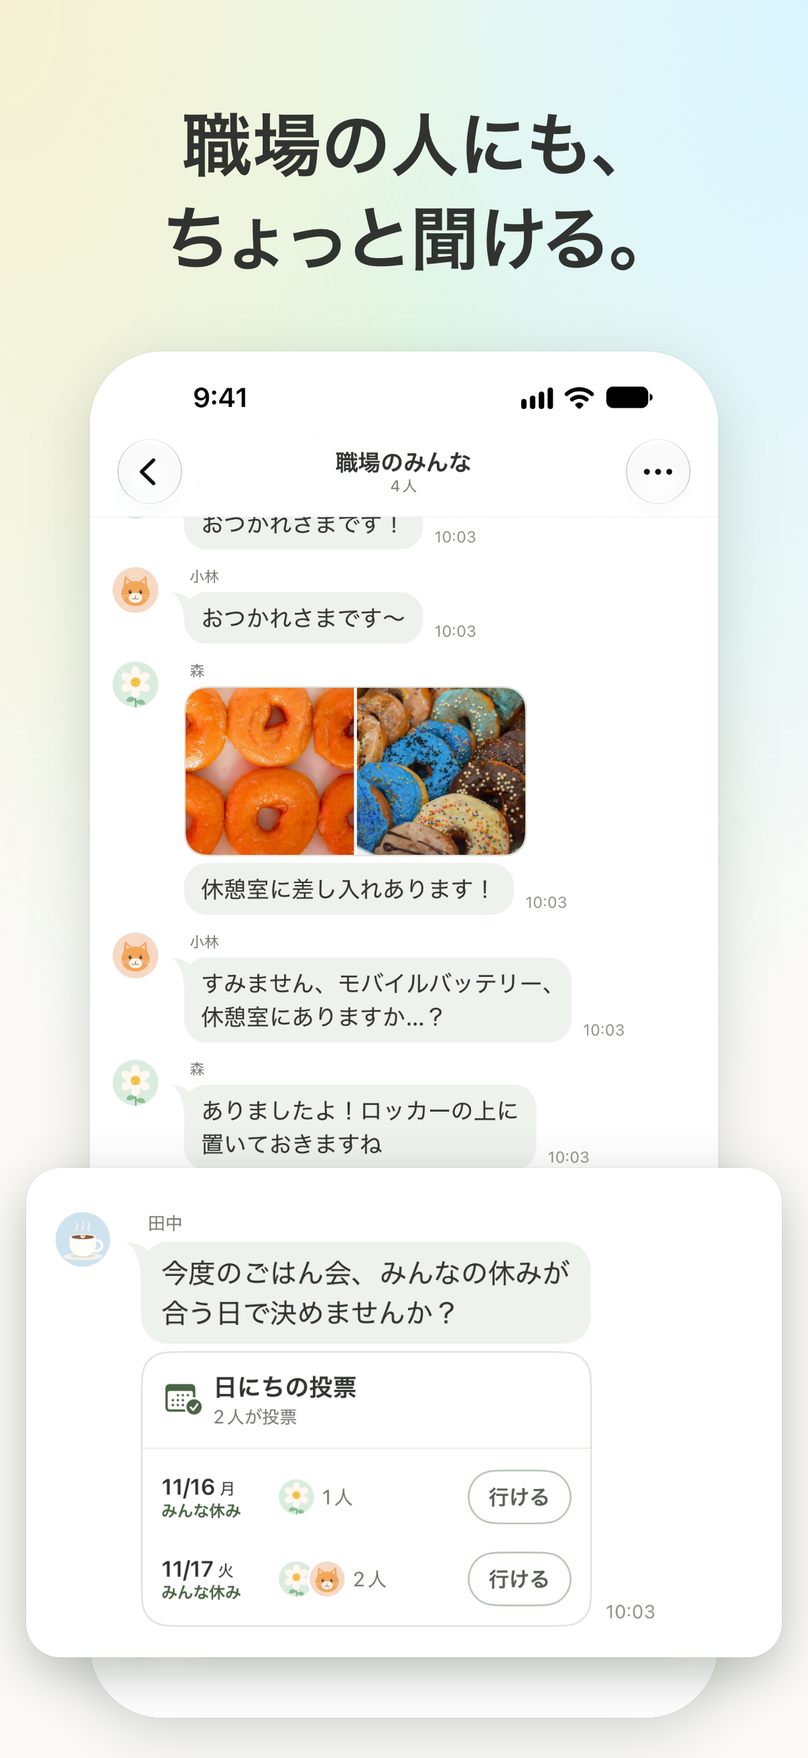
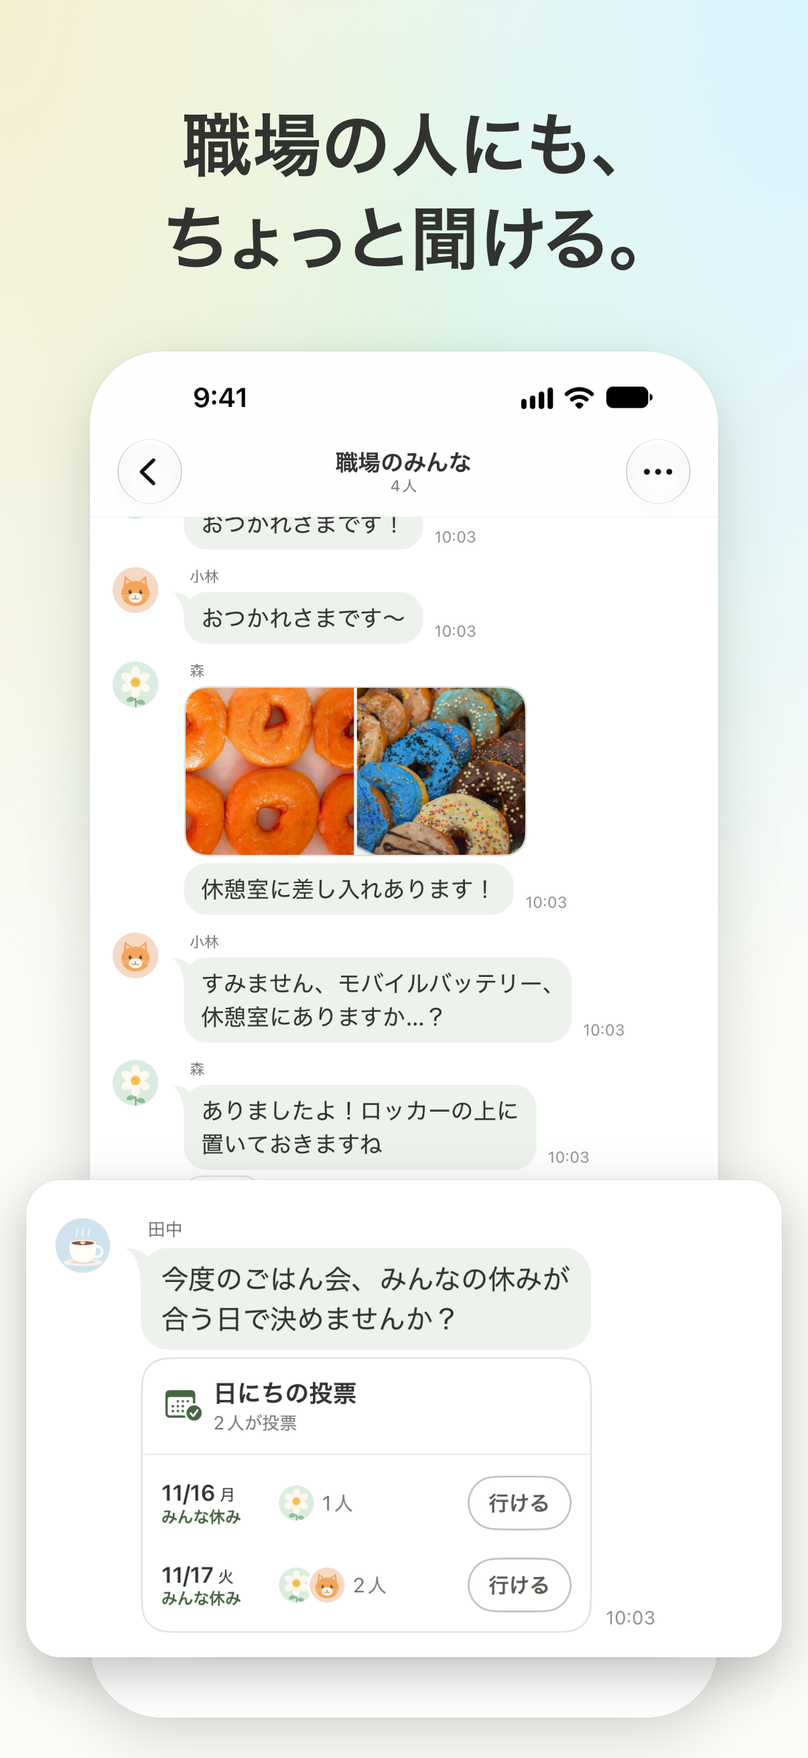
Store pictures: the chat's card with the line that asks for the poll on Google Play too, a card growing down from its part's top (#806)
A callout's card starts where its part does and grows down, so what
leads to the part stays in sight over it, and is as large as leaves of
the phone under it what the picture leaves under the phone.

diff --git a/packages/prototype/src/lib/store-shots.ts b/packages/prototype/src/lib/store-shots.ts
@@ -267,22 +267,25 @@ type StoreShotName = (typeof STORE_SHOTS)[number]["name"];
 export const STAGE_FOOT = 5;
 
 // A callout's card, lengths in hundredths of the picture's width: the room
-// it keeps around its part, the room it leaves to the picture's sides, and
-// how many times larger than the phone has it the part is drawn at most.
+// it leaves to the picture's sides, how many times larger than the phone
+// has it the part is drawn at most, and the room it keeps around its part.
 const CALLOUT = { margin: 2, most: 1.35, pad: 1.5 } as const;
 
 // A rectangle of a screen or a picture, in its pixels.
 export type Rect = { height: number; left: number; top: number; width: number };
 
 // A callout as it is drawn: how many times larger than the phone has it
-// the part is, as large as lets a row as wide as the screen keep the
-// card's margin to the picture's sides; and the card in the picture, over
-// the part in the phone, which stands in the picture's middle as tall as
-// the room under the headline. The card reaches past its part by what the
-// part grows and its own room, and then takes in every piece of the
-// screen it would lie over a part of, on whichever side that is: what
-// shows beside the card is whole, and what it covers is covered whole.
-// The part is drawn in the card's middle.
+// the part is; and the card in the picture, over the part in the phone,
+// which stands in the picture's middle as tall as the room under the
+// headline. A screen reads from its top, so what is over the part leads
+// to it and stays in sight: the card's top is where the part's is, with
+// its own room, and the part grows down from there, and to both sides
+// alike. It is as large as lets a row as wide as the screen keep the
+// card's margin to the picture's sides, and the card leave as much of the
+// phone under it as the picture leaves under the phone. The card then
+// takes in every piece of the screen it would lie over a part of, on
+// whichever side that is: what shows beside the card is whole, and what
+// it covers is covered whole. The part is drawn in the card's middle.
 export const calloutOf = (
   measured: Rect,
   pieces: readonly Rect[],
@@ -292,13 +295,16 @@ export const calloutOf = (
   const unit = picture.width / 100;
   const headline = picture.height * HEADLINE_SHARE;
   const phone = (picture.height - headline - STAGE_FOOT * unit) / screen.height;
+  const pad = (CALLOUT.pad * unit) / phone;
+  const top = measured.top - pad;
   const scale = Math.min(
     CALLOUT.most,
     (100 - 2 * CALLOUT.margin - 2 * CALLOUT.pad) /
-      ((screen.width * phone) / unit)
+      ((screen.width * phone) / unit),
+    (screen.height - (STAGE_FOOT * unit) / phone - pad - measured.top) /
+      measured.height
   );
-  const pad = (CALLOUT.pad * unit) / phone;
-  const reach = (length: number) => ((scale - 1) * length) / 2 + pad;
+  const beside = ((scale - 1) * measured.width) / 2 + pad;
   const sides = pieces.map((piece) => ({
     foot: piece.top + piece.height,
     left: piece.left,
@@ -322,10 +328,10 @@ export const calloutOf = (
   // The card over the phone, in the screen's pixels: each turn takes one
   // more piece in whole, and none in leaves again.
   let card = {
-    foot: measured.top + measured.height + reach(measured.height),
-    left: measured.left - reach(measured.width),
-    right: measured.left + measured.width + reach(measured.width),
-    top: measured.top - reach(measured.height),
+    foot: measured.top + scale * measured.height + pad,
+    left: measured.left - beside,
+    right: measured.left + measured.width + beside,
+    top,
   };
   let cut = cutBy(card);
   while (cut !== undefined) {

diff --git a/apps/design/tests/store-screenshots.test.ts b/apps/design/tests/store-screenshots.test.ts
@@ -6,6 +6,7 @@ import {
   FEATURE_GRAPHIC,
   HEADLINE,
   HEADLINE_SHARE,
+  STAGE_FOOT,
   lineBoxOf,
   lineClearOf,
   STORE_SHOTS,
@@ -252,6 +253,25 @@ test("a callout's card cuts through no piece beside it either, and leaves alone 
   expect(over.top).toBeCloseTo(bare.top);
   expect(over.foot).toBeCloseTo(bare.foot);
   expect(over.right).toBeLessThan(button.left);
+});
+
+test("a callout's card leaves what is over its part in sight, and the phone's foot under it", () => {
+  const screen = SCREENS.android;
+  const picture = STORES.android;
+  // An answer of a chat, and close under it the lines the card lifts, too
+  // tall to grow as much as a card may.
+  const answer = { height: 300, left: 20, top: 1100, width: 1040 };
+  const lines = { height: 710, left: 20, top: 1450, width: 1040 };
+  const { card, phone, scale } = calloutOf(lines, [answer], screen, picture);
+  const over = onScreen(card, phone, screen, picture);
+  expect(over.top).toBeGreaterThan(answer.top + answer.height);
+  expect(over.top).toBeLessThan(lines.top);
+  expect(scale).toBeGreaterThan(1.2);
+  expect(scale).toBeLessThan(1.35);
+  // As far over the phone's foot as the phone is over the picture's.
+  expect(over.foot).toBeCloseTo(
+    screen.height - (STAGE_FOOT * picture.width) / 100 / phone
+  );
 });
 
 const tiles = wallOf(WALL_SHOT.tiles);

diff --git a/apps/android/app/src/androidTest/kotlin/app/pochical/StoreScreenshots.kt b/apps/android/app/src/androidTest/kotlin/app/pochical/StoreScreenshots.kt
@@ -170,9 +170,8 @@ class StoreScreenshots {
     device.tap(By.text("全体チャット"), votes)
     check(!device.hasObject(By.text("ここから新着"))) { "The chat still has new lines" }
     photograph("04-chat")
-    // The poll, by its line, which says what it is. (A line of words is one piece here, its reactions with
-    // it: the line that asks for the poll taken in too, the card would cover the answer over it.)
-    measure("04-chat", "poll", Regex(".*日にちの投票.*"))
+    // The poll with the words that ask for it over it, each its whole line of the chat, as on iOS.
+    measure("04-chat", "poll", Regex(".*(ごはん会|日にちの投票).*"))
     device.back(By.text("メッセージ"))
 
     // A month that runs from the 15th, the page holding today, and the month put back.

diff --git a/apps/design/src/routes/_tool/[_]render/store-shot.tsx b/apps/design/src/routes/_tool/[_]render/store-shot.tsx
@@ -113,8 +113,8 @@ const tilesLie = (parts: number[], tall: number) => {
 };
 
 const styles = {
-  // A callout's card, as a tile's is, lifted over the phone from its
-  // middle.
+  // A callout's card, as a tile's is, lifted over the phone, its part in
+  // its middle.
   callout: css({
     alignItems: "center",
     bg: "white",

diff --git a/AGENTS.md b/AGENTS.md
@@ -14,7 +14,7 @@ Pochical is a monorepo: native SwiftUI (`apps/ios`) and Jetpack Compose (`apps/a
   - ライセンス's list of libraries is generated by each app's build, never checked in (spec/calendar.md, ライセンス): on iOS by LicenseList's build plugin from the resolved Swift packages' checkouts (`PLL_SOURCE_PACKAGES_PATH` names them when `-clonedSourcePackagesDirPath` moves them, as CI's `ios` job does), on Android by AboutLibraries' Gradle plugin into each variant's `res/raw/aboutlibraries.json`, with what the app carries besides its dependencies in `apps/android/app/aboutlibraries/libraries`.
   - Icons: the marks' paths from Phosphor via `pnpm --dir design icon:marks`; the iOS app icons and the widgets' `PeekingPoodle` via `pnpm --dir packages/prototype icon:ios`, and Android's launcher icon (its `mipmap` layers and the background color) and the Play listing's 512-pixel icon (`apps/android/app/src/main/ic_launcher-playstore.png`) and the widgets' `widget_poodle` via `icon:android`, both painting with `scripts/app-icon.ts` as the site icon's `icon:site` does.
   - try's installable app (`apps/try/public/app`): the icons, iOS's launch images and the web app manifest via `pnpm --dir apps/try icon:app` (`scripts/app-assets.ts`), and the manifest's screenshots, the screens `src/lib/app-screenshots.ts` names, via `image:screens`, which photographs the app on a dev server of its own as apps/design's `image:share` photographs the share image, both through `@pochical/prototype`'s `scripts/photograph.ts`. A change to that list runs both.
-  - The stores' pictures (`store/screenshots/<store>`, Google Play's feature graphic, `store/feature-graphic.png`, and the App Store's product page header, `store/product-page-header.png`): the shots, their headlines and each store's size in `@pochical/prototype`'s `lib/store-shots.ts` → `ANDROID_SERIAL=emulator-<port> mise run store:screenshots`. It photographs the real apps' screens into `.build/store-screenshots/<store>`, under the same names on both platforms, each against a server it starts and `tools/store-screenshots/seed.ts` seeds with two groups made by one piece, the coworkers' and a group of friends, each person's photo one of the faces' drawings (`design/src/drawings`) (`store:shots:android`: `StoreScreenshots` on the running emulator `ANDROID_SERIAL` names, never a phone, the widgets drawn there by themselves from the app's own days; `store:shots:ios`: `StoreScreenshotTests` in a simulator of its own, `pochical-store`, the widgets put on its Home Screen), then draws each on the site's sky under its headline (`store:images`: apps/design's `image:store`, which photographs `/_render/store-shot` as `image:share` does the share image, for each store whose screens are there). The seed runs beside the capture: it makes the groups, writes their invitations, and writes the coworkers' chat only once the person photographed has joined, so the chat says every joining above its lines, and more lines than a screen holds keep them out of the picture, among them two photographs sent at once (`tools/store-screenshots/photos`, whose README names where each is from; a JPEG put there under the same name is sent in its place); the capture reads the chat to its latest line, opens it again, and photographs it there. The status bar says 9:41 in every picture, whenever the run is, and the chat's lines the time they were written; Android's is SystemUI's demo, entered once the emulator is on its Wi-Fi, as one entered in the seconds after a boot shows a second Wi-Fi icon to its end. Every look is set through the app's own settings: a raw file or folder named `-sumi` is in black and white (テーマ 墨, シフトの色 ワントーン, シフトの見た目 線, 休みの見せ方 印だけ, 色をつける日 off), one named `-letters` has the shifts as letters (シフトの見た目 文字, テーマ ソーダ), the rest as the app starts. The wall of widgets is placed by hand (the shot's `tiles`: which widget, in which look, in which cell of `WALL`), from every kind at each size it has for a Home Screen, those that can be set to someone set to a person and to the group too, and those today's shift changes on each of the sample's (a day off, 日勤, 夜勤, 明け: the capture enters it for today in ポチポチ入力 and photographs them in both looks before it enters the next), in the app's look and in 墨: medium and large widgets carry it, small ones are its accents. 次の休み counting to a day off, 次の休み on a day off and いまのシフト are marked `whole` and stand together where the eye lands, whole in each store's picture and in what every picture drawn from the wall shows on every device; no picture is beside itself. Entering a shift takes a day's own hours off it (早出, 残業) and 夜勤 gives the day after its 明け, and nothing is put back: every picture of the month is taken before the widgets, ポチポチ入力's among them, whose days taken out are entered again by the tray's keys and the month checked to say what it did before; the widgets' shifts go in the order that leaves each the days it shows as the sample has them. いまのシフト draws its ring only while a shift is on, so after the widgets a run enters one of the sample's shifts that is on at that hour and photographs that widget again, in the app's look, once it says the shift is on (before 9:00 that shift is the day before's 夜勤, which the month's page has no day for on the 1st: the run is not started then, and says to run from 9:00). A widget is photographed once it says the days it is to show (iOS; Android draws it from what the app holds then), and a run fails when a widget asked for is not there, when the seed's last checks fail, when the port already has a server, or when the emulator's settings are not all put back. The friends' group is joined as まい with ひよこ picked for a face, in place of the drawing a new person is given at random, and the coworkers' as 佐藤, there alone. A shot of one screen may lift the part its headline is about (its `callout`): the capture measures that part by its element, and every piece of the screen that says something, into `<raw>.json` (on Android as Compose lays them out, the accessibility tree giving a button smaller than a finger the larger place it takes touches in), and the picture draws the part again, larger (as large as keeps a row as wide as the screen inside the picture, 1.35 times at most), on a card over where it is in the phone; a piece the card would lie over a part of, on any side, it takes in whole, so nothing shows cut beside it, and the part is drawn in the card's middle, whole lines of the screen with their own room. The friends' table lifts the days everyone is off, the chat its poll's line (on iOS with the line that asks for it), 端末カレンダーに追加 its 自動で反映. The details' shot and the cares' are three tiles each, within where a phone is under the headline, the room they leave shared evenly between them up to the most a gap may be and the rest left over and under them alike, a tile a card of the picture's with room inside it, on the ground of what it holds: a part of a screen its platform's UI test cuts at whole rows, from the top of one of the screen's own pieces to the foot of another, or pieces the page draws from the app's own marks, larger than a screen has them, with words and lines of the picture's that say what happens (the shot's `pieces`). Each tile holds only what makes its point. A part's file is named for what it is (`tile-<what>.png`), not for the shot it is in. The details', how a roster itself is: two weeks of 繰り返しを直す on a fixed cycle, a run's last step but one as it changes the job, to the ready-made 当番・非番・休み from next month's 1st, 当番 and 休み then named 当務 and 週休; the first week of a page of a シフトの期間 from the 15th under its heading, set in 設定 and put back; and a day of 早出 and one of 残業 with their marks' corners named, drawn. The cares', what the app does for the person: 夜勤's key pressed and the two days it fills, the second the app's doing, drawn; リマインド's reminder of the evening before, the next notification as its page draws it, before anything is changed; and グループの設定's rows of a group with an end, 忘年会, made in グループを作る with the day 終了日をつける offers, a run's very last step as it leaves a group. The wall is drawn in other pictures too, the list `WALL_PICTURES`: each its name, size, file, the store whose widgets it shows, where the wall lies in it (`lie`, as in a store's picture without), the line it carries (`line`, the wall clearing to the sky around it, none without) and the part of it every device shows (`safe`, which holds the line and the widgets marked `whole`, anywhere without). The App Store's product page header is the first: the wall across 3840×1646, the site's line beside the three widgets, both inside the art safe area measured from Apple's template. A change to that page or to a headline runs `store:images` alone, the screens still in `.build`; a change to an app's screens runs its `store:shots:*` and `store:images`.
+  - The stores' pictures (`store/screenshots/<store>`, Google Play's feature graphic, `store/feature-graphic.png`, and the App Store's product page header, `store/product-page-header.png`): the shots, their headlines and each store's size in `@pochical/prototype`'s `lib/store-shots.ts` → `ANDROID_SERIAL=emulator-<port> mise run store:screenshots`. It photographs the real apps' screens into `.build/store-screenshots/<store>`, under the same names on both platforms, each against a server it starts and `tools/store-screenshots/seed.ts` seeds with two groups made by one piece, the coworkers' and a group of friends, each person's photo one of the faces' drawings (`design/src/drawings`) (`store:shots:android`: `StoreScreenshots` on the running emulator `ANDROID_SERIAL` names, never a phone, the widgets drawn there by themselves from the app's own days; `store:shots:ios`: `StoreScreenshotTests` in a simulator of its own, `pochical-store`, the widgets put on its Home Screen), then draws each on the site's sky under its headline (`store:images`: apps/design's `image:store`, which photographs `/_render/store-shot` as `image:share` does the share image, for each store whose screens are there). The seed runs beside the capture: it makes the groups, writes their invitations, and writes the coworkers' chat only once the person photographed has joined, so the chat says every joining above its lines, and more lines than a screen holds keep them out of the picture, among them two photographs sent at once (`tools/store-screenshots/photos`, whose README names where each is from; a JPEG put there under the same name is sent in its place); the capture reads the chat to its latest line, opens it again, and photographs it there. The status bar says 9:41 in every picture, whenever the run is, and the chat's lines the time they were written; Android's is SystemUI's demo, entered once the emulator is on its Wi-Fi, as one entered in the seconds after a boot shows a second Wi-Fi icon to its end. Every look is set through the app's own settings: a raw file or folder named `-sumi` is in black and white (テーマ 墨, シフトの色 ワントーン, シフトの見た目 線, 休みの見せ方 印だけ, 色をつける日 off), one named `-letters` has the shifts as letters (シフトの見た目 文字, テーマ ソーダ), the rest as the app starts. The wall of widgets is placed by hand (the shot's `tiles`: which widget, in which look, in which cell of `WALL`), from every kind at each size it has for a Home Screen, those that can be set to someone set to a person and to the group too, and those today's shift changes on each of the sample's (a day off, 日勤, 夜勤, 明け: the capture enters it for today in ポチポチ入力 and photographs them in both looks before it enters the next), in the app's look and in 墨: medium and large widgets carry it, small ones are its accents. 次の休み counting to a day off, 次の休み on a day off and いまのシフト are marked `whole` and stand together where the eye lands, whole in each store's picture and in what every picture drawn from the wall shows on every device; no picture is beside itself. Entering a shift takes a day's own hours off it (早出, 残業) and 夜勤 gives the day after its 明け, and nothing is put back: every picture of the month is taken before the widgets, ポチポチ入力's among them, whose days taken out are entered again by the tray's keys and the month checked to say what it did before; the widgets' shifts go in the order that leaves each the days it shows as the sample has them. いまのシフト draws its ring only while a shift is on, so after the widgets a run enters one of the sample's shifts that is on at that hour and photographs that widget again, in the app's look, once it says the shift is on (before 9:00 that shift is the day before's 夜勤, which the month's page has no day for on the 1st: the run is not started then, and says to run from 9:00). A widget is photographed once it says the days it is to show (iOS; Android draws it from what the app holds then), and a run fails when a widget asked for is not there, when the seed's last checks fail, when the port already has a server, or when the emulator's settings are not all put back. The friends' group is joined as まい with ひよこ picked for a face, in place of the drawing a new person is given at random, and the coworkers' as 佐藤, there alone. A shot of one screen may lift the part its headline is about (its `callout`): the capture measures that part by its element, and every piece of the screen that says something, into `<raw>.json` (on Android as Compose lays them out, the accessibility tree giving a button smaller than a finger the larger place it takes touches in), and the picture draws the part again, larger (as large as keeps a row as wide as the screen inside the picture and the card as far over the phone's foot as the phone is over the picture's, 1.35 times at most), on a card over the phone that starts where the part does and grows down from there, what leads to the part left in sight over it; a piece the card would lie over a part of, on any side, it takes in whole, so nothing shows cut beside it, and the part is drawn in the card's middle, whole lines of the screen with their own room. The friends' table lifts the days everyone is off, the chat its poll's line with the line that asks for it, 端末カレンダーに追加 its 自動で反映. The details' shot and the cares' are three tiles each, within where a phone is under the headline, the room they leave shared evenly between them up to the most a gap may be and the rest left over and under them alike, a tile a card of the picture's with room inside it, on the ground of what it holds: a part of a screen its platform's UI test cuts at whole rows, from the top of one of the screen's own pieces to the foot of another, or pieces the page draws from the app's own marks, larger than a screen has them, with words and lines of the picture's that say what happens (the shot's `pieces`). Each tile holds only what makes its point. A part's file is named for what it is (`tile-<what>.png`), not for the shot it is in. The details', how a roster itself is: two weeks of 繰り返しを直す on a fixed cycle, a run's last step but one as it changes the job, to the ready-made 当番・非番・休み from next month's 1st, 当番 and 休み then named 当務 and 週休; the first week of a page of a シフトの期間 from the 15th under its heading, set in 設定 and put back; and a day of 早出 and one of 残業 with their marks' corners named, drawn. The cares', what the app does for the person: 夜勤's key pressed and the two days it fills, the second the app's doing, drawn; リマインド's reminder of the evening before, the next notification as its page draws it, before anything is changed; and グループの設定's rows of a group with an end, 忘年会, made in グループを作る with the day 終了日をつける offers, a run's very last step as it leaves a group. The wall is drawn in other pictures too, the list `WALL_PICTURES`: each its name, size, file, the store whose widgets it shows, where the wall lies in it (`lie`, as in a store's picture without), the line it carries (`line`, the wall clearing to the sky around it, none without) and the part of it every device shows (`safe`, which holds the line and the widgets marked `whole`, anywhere without). The App Store's product page header is the first: the wall across 3840×1646, the site's line beside the three widgets, both inside the art safe area measured from Apple's template. A change to that page or to a headline runs `store:images` alone, the screens still in `.build`; a change to an app's screens runs its `store:shots:*` and `store:images`.
   - Workers' types: each Worker's `wrangler.jsonc` and the wrangler in `pnpm-lock.yaml`, with the workerd it pins → `mise run gen:worker-types`, which runs every workspace's `cf-typegen` (into `worker-configuration.d.ts` in `apps/server`, `apps/admin` and `apps/web`). A wrangler bump regenerates them too; CI runs `mise run worker-types:check`. A Worker with a `cf-typegen` and no secrets still declares `"secrets": { "required": [] }`, so its types never come from a computer's `.dev.vars` or `.env`.
   - SQL schemas are Drizzle and their migrations are generated, never written: D1 `apps/server/src/db/schema.ts` (`mise run db:generate -- --name <what>`; better-auth's tables via `mise run auth:schema` first), the Group DO `group-do-schema.ts` (`mise run group-do:generate`), the User DO `user-do-schema.ts` (`mise run user-do:generate`). CI runs `mise run db:check`.
 - The stores' listings are in `store/` (`store/README.md`): the texts of the App Store and Google Play, and the answers to their forms (`declarations.md`), entered into App Store Connect and Play Console by hand. `apps/design`'s tests hold each text to its store's limit; an answer changes in the PR that changes what the app does.
